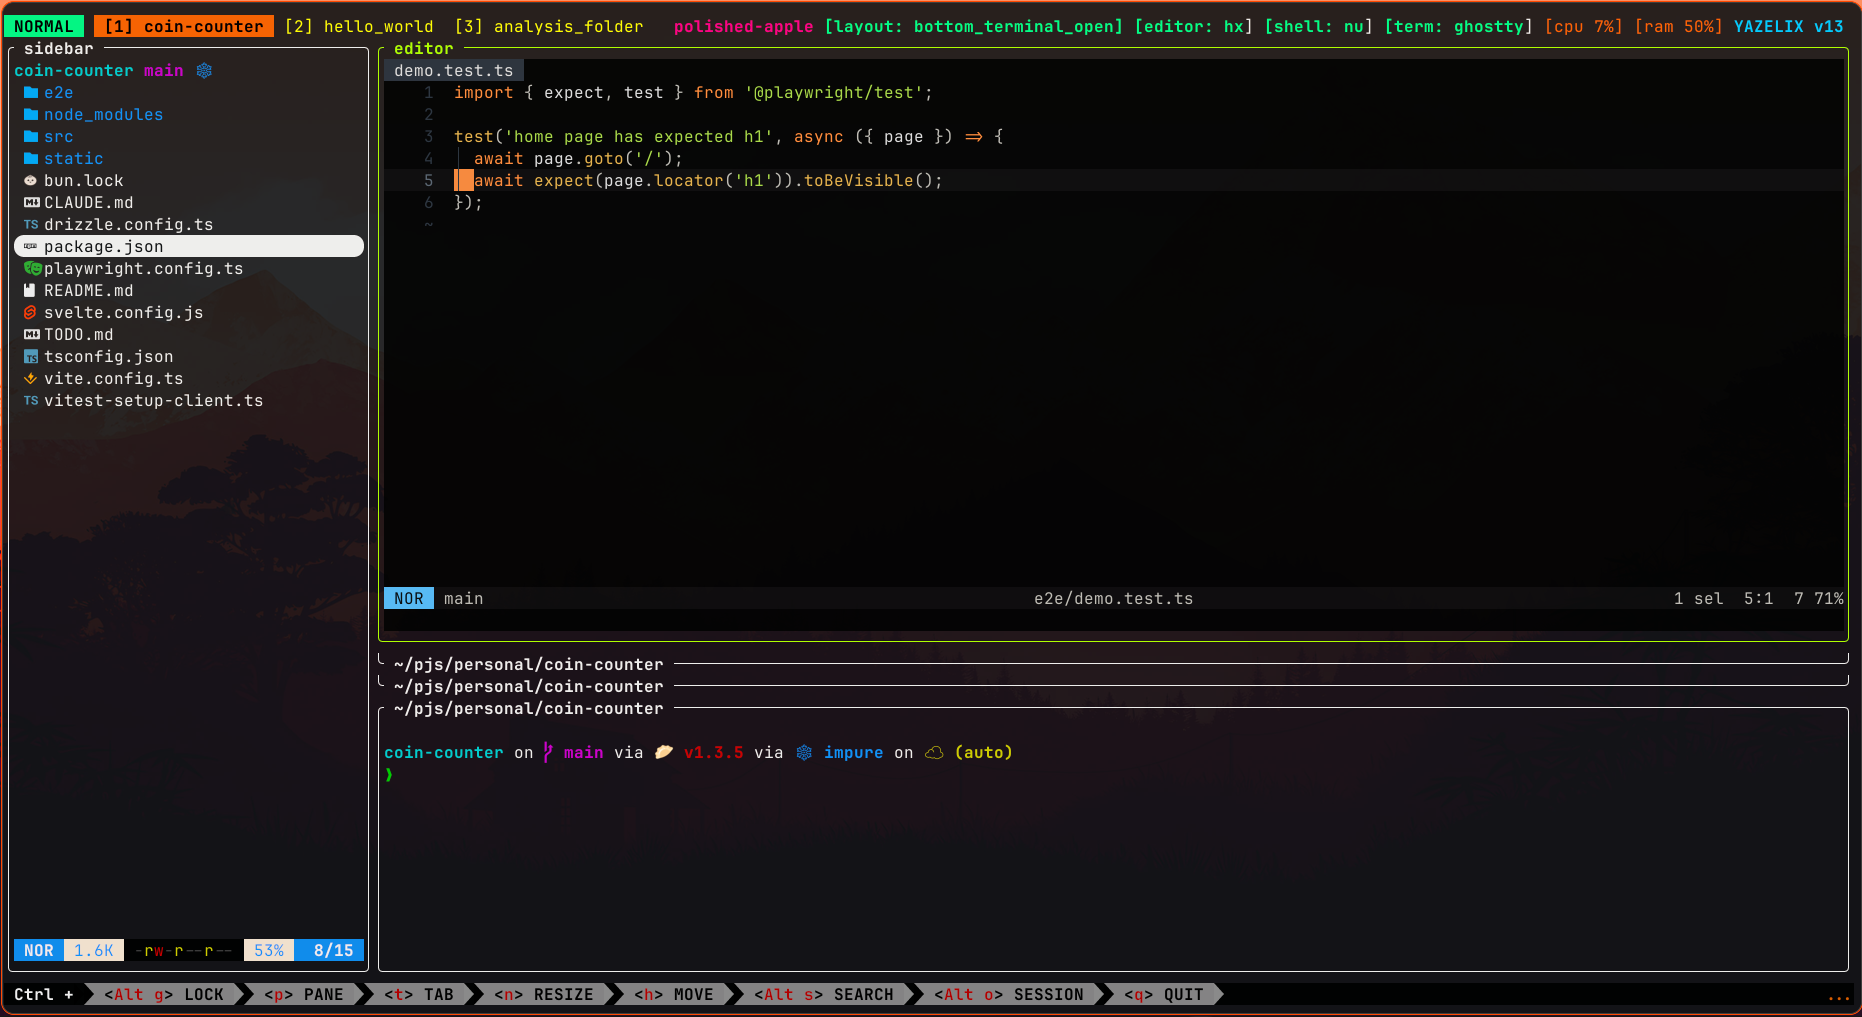
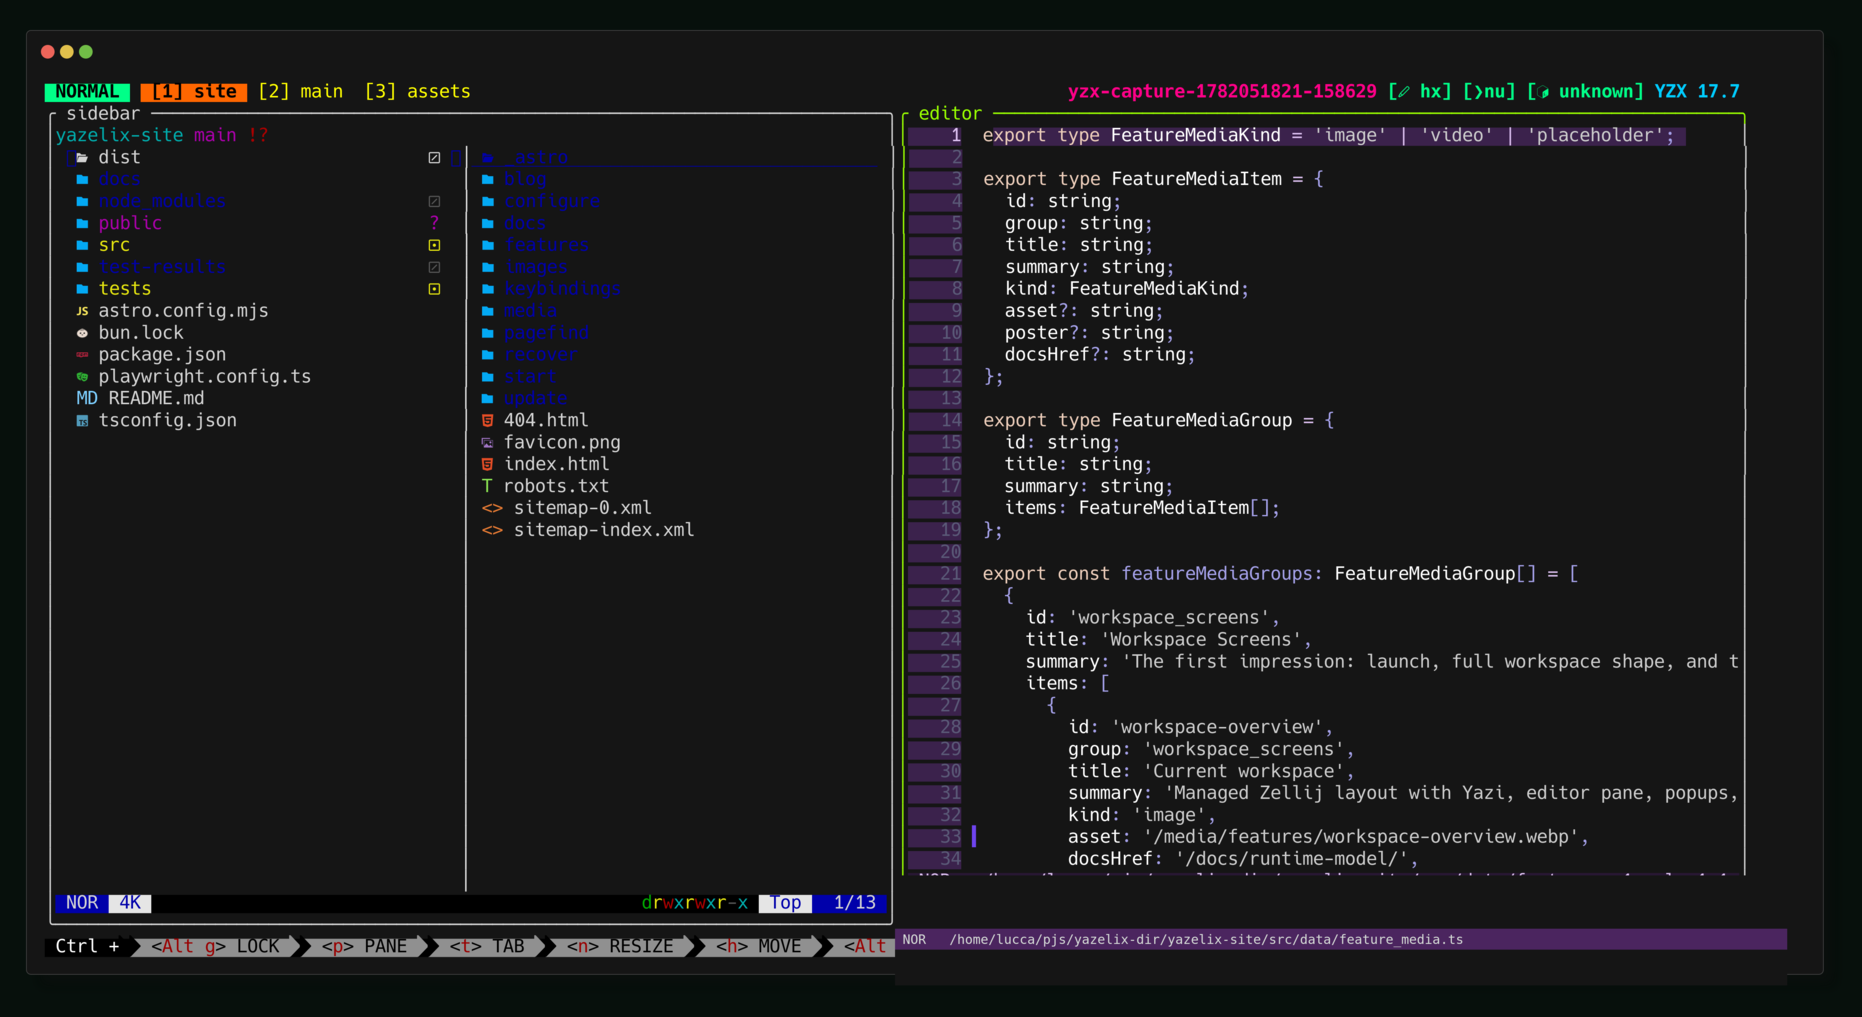
Fill Yazelix feature media

diff --git a/src/data/feature_media.ts b/src/data/feature_media.ts
@@ -30,7 +30,7 @@ export const featureMediaGroups: FeatureMediaGroup[] = [
 				title: 'Current workspace',
 				summary: 'Managed Zellij layout with Yazi, editor pane, popups, and status surfaces in one runtime.',
 				kind: 'image',
-				asset: '/images/yazelix_current_example.png',
+				asset: '/media/features/workspace-overview.webp',
 				docsHref: '/docs/runtime-model/',
 			},
 			{
@@ -38,7 +38,8 @@ export const featureMediaGroups: FeatureMediaGroup[] = [
 				group: 'workspace_screens',
 				title: 'Full-pane Yazi start',
 				summary: 'Startup begins in a file-first workspace before opening into the managed editor flow.',
-				kind: 'placeholder',
+				kind: 'image',
+				asset: '/media/features/full-pane-yazi-startup.gif',
 				docsHref: '/start/',
 			},
 			{
@@ -46,7 +47,8 @@ export const featureMediaGroups: FeatureMediaGroup[] = [
 				group: 'workspace_screens',
 				title: 'yzx screen surfaces',
 				summary: 'All Yazelix screen styles collected as compact visual references.',
-				kind: 'placeholder',
+				kind: 'image',
+				asset: '/media/features/yzx-screen-surfaces.gif',
 				docsHref: '/docs/runtime-model/',
 			},
 		],
@@ -61,7 +63,8 @@ export const featureMediaGroups: FeatureMediaGroup[] = [
 				group: 'opening_files',
 				title: 'Z: zoxide jump in Yazi',
 				summary: 'Yazi-native zoxide jump changes the active file-manager location and stays inside Yazi.',
-				kind: 'placeholder',
+				kind: 'image',
+				asset: '/media/features/yazi-zoxide-jump.gif',
 				docsHref: '/keybindings/',
 			},
 			{
@@ -69,7 +72,8 @@ export const featureMediaGroups: FeatureMediaGroup[] = [
 				group: 'opening_files',
 				title: 'z: fuzzy path jump',
 				summary: 'Yazi-native fuzzy find jumps to paths without retargeting the managed editor pane.',
-				kind: 'placeholder',
+				kind: 'image',
+				asset: '/media/features/yazi-fzf-jump.gif',
 				docsHref: '/keybindings/',
 			},
 			{
@@ -77,7 +81,8 @@ export const featureMediaGroups: FeatureMediaGroup[] = [
 				group: 'opening_files',
 				title: 'Alt+z: zoxide to editor',
 				summary: 'Yazelix uses the zoxide picker to retarget the managed editor/workspace directly to the picked location.',
-				kind: 'placeholder',
+				kind: 'image',
+				asset: '/media/features/open-zoxide-in-editor.gif',
 				docsHref: '/keybindings/',
 			},
 			{
@@ -85,7 +90,8 @@ export const featureMediaGroups: FeatureMediaGroup[] = [
 				group: 'opening_files',
 				title: 'Editor pane exists',
 				summary: 'Opening a file reuses the existing managed editor pane instead of spawning a duplicate.',
-				kind: 'placeholder',
+				kind: 'image',
+				asset: '/media/features/open-editor-exists.webp',
 				docsHref: '/docs/runtime-model/',
 			},
 			{
@@ -93,7 +99,8 @@ export const featureMediaGroups: FeatureMediaGroup[] = [
 				group: 'opening_files',
 				title: 'Editor pane missing',
 				summary: 'Yazelix creates and targets the managed editor pane when it is absent.',
-				kind: 'placeholder',
+				kind: 'image',
+				asset: '/media/features/open-editor-missing.webp',
 				docsHref: '/docs/runtime-model/',
 			},
 			{
@@ -101,7 +108,8 @@ export const featureMediaGroups: FeatureMediaGroup[] = [
 				group: 'opening_files',
 				title: 'Keep sidebar visible',
 				summary: '`editor.hide_sidebar_on_file_open = false` keeps the file tree visible after opening.',
-				kind: 'placeholder',
+				kind: 'image',
+				asset: '/media/features/hide-sidebar-off.webp',
 				docsHref: '/configure/',
 			},
 			{
@@ -109,7 +117,8 @@ export const featureMediaGroups: FeatureMediaGroup[] = [
 				group: 'opening_files',
 				title: 'Hide sidebar on open',
 				summary: '`editor.hide_sidebar_on_file_open = true` collapses the file tree after opening.',
-				kind: 'placeholder',
+				kind: 'image',
+				asset: '/media/features/hide-sidebar-on.webp',
 				docsHref: '/configure/',
 			},
 		],
@@ -124,7 +133,8 @@ export const featureMediaGroups: FeatureMediaGroup[] = [
 				group: 'sidebars',
 				title: 'Toggle sidebars',
 				summary: '`Alt+Shift+H` and `Alt+Shift+L` show or hide the managed side surfaces.',
-				kind: 'placeholder',
+				kind: 'image',
+				asset: '/media/features/toggle-sidebars.gif',
 				docsHref: '/keybindings/',
 			},
 			{
@@ -132,7 +142,8 @@ export const featureMediaGroups: FeatureMediaGroup[] = [
 				group: 'sidebars',
 				title: 'Focus left sidebar',
 				summary: '`Ctrl+y` toggles focus between the editor and the left Yazi file tree.',
-				kind: 'placeholder',
+				kind: 'image',
+				asset: '/media/features/focus-left-sidebar.gif',
 				docsHref: '/keybindings/',
 			},
 			{
@@ -140,7 +151,8 @@ export const featureMediaGroups: FeatureMediaGroup[] = [
 				group: 'sidebars',
 				title: 'Focus right sidebar',
 				summary: '`Ctrl+Shift+Y` toggles focus between the editor and the right agent sidebar.',
-				kind: 'placeholder',
+				kind: 'image',
+				asset: '/media/features/focus-right-sidebar.gif',
 				docsHref: '/keybindings/',
 			},
 		],
@@ -155,7 +167,8 @@ export const featureMediaGroups: FeatureMediaGroup[] = [
 				group: 'popups_tools',
 				title: 'Config UI popup',
 				summary: 'The ratconfig-backed settings UI edits JSONC settings from a managed popup.',
-				kind: 'placeholder',
+				kind: 'image',
+				asset: '/media/features/ratconfig-ui-popup.gif',
 				docsHref: '/configure/',
 			},
 			{
@@ -163,7 +176,8 @@ export const featureMediaGroups: FeatureMediaGroup[] = [
 				group: 'popups_tools',
 				title: 'Information popup',
 				summary: '`Alt+Shift+I` opens the keep-alive process information surface.',
-				kind: 'placeholder',
+				kind: 'image',
+				asset: '/media/features/information-popup.gif',
 				docsHref: '/keybindings/',
 			},
 			{
@@ -171,7 +185,8 @@ export const featureMediaGroups: FeatureMediaGroup[] = [
 				group: 'popups_tools',
 				title: 'Menu popup',
 				summary: '`Alt+Shift+M` opens the command menu surface.',
-				kind: 'placeholder',
+				kind: 'image',
+				asset: '/media/features/menu-popup.gif',
 				docsHref: '/keybindings/',
 			},
 			{
@@ -179,7 +194,8 @@ export const featureMediaGroups: FeatureMediaGroup[] = [
 				group: 'popups_tools',
 				title: 'LazyGit popup',
 				summary: 'The bottom popup keeps Git actions close to the current workspace root.',
-				kind: 'placeholder',
+				kind: 'image',
+				asset: '/media/features/lazygit-popup.gif',
 				docsHref: '/keybindings/',
 			},
 		],
@@ -194,7 +210,8 @@ export const featureMediaGroups: FeatureMediaGroup[] = [
 				group: 'cursor_feel',
 				title: 'Ghostty cursor outside Helix',
 				summary: 'Ghostty cursor behavior in normal Yazelix surfaces.',
-				kind: 'placeholder',
+				kind: 'image',
+				asset: '/media/features/ghostty-cursor-outside-helix.gif',
 				docsHref: '/docs/runtime-model/',
 			},
 			{
@@ -202,7 +219,8 @@ export const featureMediaGroups: FeatureMediaGroup[] = [
 				group: 'cursor_feel',
 				title: 'Ghostty cursor inside Helix',
 				summary: 'How the Ghostty cursor effect behaves in the managed editor.',
-				kind: 'placeholder',
+				kind: 'image',
+				asset: '/media/features/ghostty-cursor-inside-helix.gif',
 				docsHref: '/docs/runtime-model/',
 			},
 			{
@@ -210,7 +228,8 @@ export const featureMediaGroups: FeatureMediaGroup[] = [
 				group: 'cursor_feel',
 				title: 'yzxterm cursor outside Helix',
 				summary: 'First-party terminal cursor behavior outside the editor.',
-				kind: 'placeholder',
+				kind: 'image',
+				asset: '/media/features/yzxterm-cursor-outside-helix.gif',
 				docsHref: '/docs/runtime-model/',
 			},
 			{
@@ -218,7 +237,8 @@ export const featureMediaGroups: FeatureMediaGroup[] = [
 				group: 'cursor_feel',
 				title: 'yzxterm cursor inside Helix',
 				summary: 'First-party terminal cursor behavior inside the managed editor.',
-				kind: 'placeholder',
+				kind: 'image',
+				asset: '/media/features/yzxterm-cursor-inside-helix.gif',
 				docsHref: '/docs/runtime-model/',
 			},
 		],
@@ -233,7 +253,8 @@ export const featureMediaGroups: FeatureMediaGroup[] = [
 				group: 'visual_settings',
 				title: 'Status widgets',
 				summary: 'Photos of editor, shell, terminal, cursor, usage, CPU, and RAM widgets.',
-				kind: 'placeholder',
+				kind: 'image',
+				asset: '/media/features/widget-photos.webp',
 				docsHref: '/configure/',
 			},
 			{
@@ -241,7 +262,8 @@ export const featureMediaGroups: FeatureMediaGroup[] = [
 				group: 'visual_settings',
 				title: 'Yazi git decorations',
 				summary: 'Git status decorations in the managed Yazi file tree show repository changes from the sidebar.',
-				kind: 'placeholder',
+				kind: 'image',
+				asset: '/media/features/yazi-git-decorations.webp',
 				docsHref: '/configure/',
 			},
 			{
@@ -249,7 +271,8 @@ export const featureMediaGroups: FeatureMediaGroup[] = [
 				group: 'visual_settings',
 				title: 'Icon-only Starship prompt',
 				summary: 'The sidebar shell prompt uses a compact Starship setup with only icons so it fits the narrow pane.',
-				kind: 'placeholder',
+				kind: 'image',
+				asset: '/media/features/sidebar-starship-icons.webp',
 				docsHref: '/configure/',
 			},
 			{
@@ -257,7 +280,8 @@ export const featureMediaGroups: FeatureMediaGroup[] = [
 				group: 'visual_settings',
 				title: 'Pane frames on and off',
 				summary: 'Side-by-side comparison for the pane frame setting.',
-				kind: 'placeholder',
+				kind: 'image',
+				asset: '/media/features/pane-frames-on-off.webp',
 				docsHref: '/configure/',
 			},
 			{
@@ -265,7 +289,8 @@ export const featureMediaGroups: FeatureMediaGroup[] = [
 				group: 'visual_settings',
 				title: 'Rounded corners on and off',
 				summary: 'Side-by-side comparison for rounded workspace corners.',
-				kind: 'placeholder',
+				kind: 'image',
+				asset: '/media/features/rounded-corners-on-off.webp',
 				docsHref: '/configure/',
 			},
 		],

diff --git a/src/styles/home.css b/src/styles/home.css
@@ -251,14 +251,19 @@ h1 {
 .feature-preview-grid,
 .feature-gallery {
 	display: grid;
-	grid-template-columns: repeat(2, minmax(0, 1fr));
 	gap: 1rem;
 	margin-top: 2rem;
 }
 
+.feature-preview-grid,
 .feature-gallery {
 	grid-template-columns: 1fr;
 	gap: 1.4rem;
+}
+
+.feature-preview-grid .feature-media-frame img,
+.feature-preview-grid .feature-media-frame video {
+	object-fit: contain;
 }
 
 .feature-page {

diff --git a/tests/site-smoke.spec.ts b/tests/site-smoke.spec.ts
@@ -36,12 +36,14 @@ test('home page exposes product and docs actions', async ({ page }) => {
 	);
 });
 
-test('features page exposes planned visual demo groups', async ({ page }) => {
+test('features page exposes filled visual demo groups', async ({ page }) => {
 	await page.goto('/features/');
 	await expect(page.getByRole('heading', { name: 'Yazelix features' })).toBeVisible();
 	await expect(page.getByRole('link', { name: 'Features' })).toHaveAttribute('aria-current', 'page');
+	await expect(page.getByText('26 visual demos')).toBeVisible();
 	await expect(page.getByRole('heading', { name: 'Yazi Jumps And Opening' })).toBeVisible();
-	await expect(page.getByText('Capture planned')).toHaveCount(25);
+	await expect(page.locator('.feature-page .feature-media img')).toHaveCount(26);
+	await expect(page.locator('.feature-page .feature-placeholder')).toHaveCount(0);
 	await expect(page.getByText('Yazi git decorations')).toBeVisible();
 	await expect(page.getByText('Icon-only Starship prompt')).toBeVisible();
 	await expect(page.getByRole('link', { name: 'Docs' }).first()).toBeVisible();